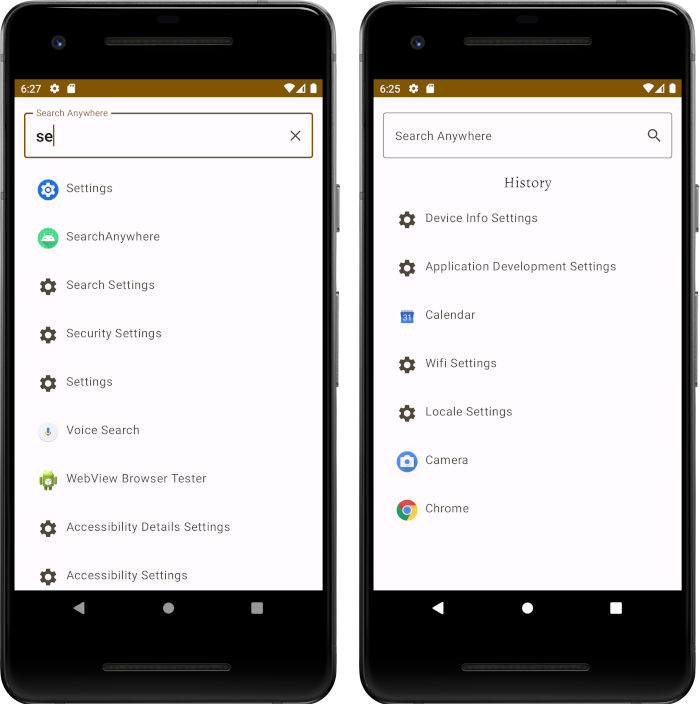
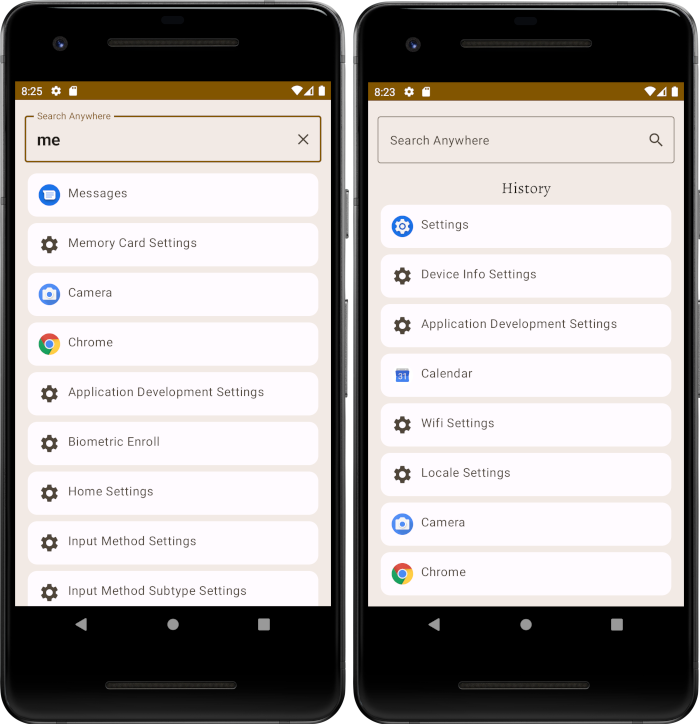
Theme changes

diff --git a/app/src/main/java/se/kalind/searchanywhere/ui/screens/search/SearchScreen.kt b/app/src/main/java/se/kalind/searchanywhere/ui/screens/search/SearchScreen.kt
@@ -19,6 +19,7 @@ import androidx.compose.material.icons.Icons
 import androidx.compose.material.icons.filled.Clear
 import androidx.compose.material.icons.filled.Search
 import androidx.compose.material3.Card
+import androidx.compose.material3.ExperimentalMaterial3Api
 import androidx.compose.material3.Icon
 import androidx.compose.material3.MaterialTheme
 import androidx.compose.material3.OutlinedTextField
@@ -26,6 +27,7 @@ import androidx.compose.material3.Scaffold
 import androidx.compose.material3.SnackbarHost
 import androidx.compose.material3.SnackbarHostState
 import androidx.compose.material3.Text
+import androidx.compose.material3.surfaceColorAtElevation
 import androidx.compose.runtime.Composable
 import androidx.compose.runtime.getValue
 import androidx.compose.runtime.mutableStateOf
@@ -34,6 +36,7 @@ import androidx.compose.runtime.rememberCoroutineScope
 import androidx.compose.runtime.saveable.rememberSaveable
 import androidx.compose.ui.Alignment
 import androidx.compose.ui.Modifier
+import androidx.compose.ui.graphics.Color
 import androidx.compose.ui.platform.LocalContext
 import androidx.compose.ui.text.TextStyle
 import androidx.compose.ui.text.font.FontWeight
@@ -216,6 +219,7 @@ private fun ItemList(
 }
 
 
+@OptIn(ExperimentalMaterial3Api::class)
 @Composable
 private fun ItemRow(
     item: SearchItem,
@@ -224,8 +228,9 @@ private fun ItemRow(
 ) {
     Card(
         modifier = modifier
-            .padding(vertical = 4.dp, horizontal = 4.dp)
-            .clickable { onClick(item.item) }
+            .padding(vertical = 4.dp, horizontal = 4.dp),
+            // .clickable modifier doesn't render the ripple correctly
+            onClick = { onClick(item.item) },
     ) {
         Row(
             modifier = Modifier

diff --git a/app/src/main/java/se/kalind/searchanywhere/ui/theme/Theme.kt b/app/src/main/java/se/kalind/searchanywhere/ui/theme/Theme.kt
@@ -14,6 +14,7 @@ import androidx.compose.ui.graphics.toArgb
 import androidx.compose.ui.platform.LocalContext
 import androidx.compose.ui.platform.LocalView
 import androidx.core.view.ViewCompat
+import androidx.core.view.WindowCompat
 
 private val LightColors = lightColorScheme(
     primary = md_theme_light_primary,
@@ -81,7 +82,7 @@ private val DarkColors = darkColorScheme(
 )
 
 @Composable
-fun MyApplicationTheme(
+fun AppTheme(
     darkTheme: Boolean = isSystemInDarkTheme(),
     // Dynamic color is available on Android 12+
     dynamicColor: Boolean = true,
@@ -96,17 +97,22 @@ fun MyApplicationTheme(
         darkTheme -> DarkColors
         else -> LightColors
     }
+    // Add primary status bar color from chosen color scheme.
     val view = LocalView.current
     if (!view.isInEditMode) {
         SideEffect {
-            (view.context as Activity).window.statusBarColor = colorScheme.primary.toArgb()
-            ViewCompat.getWindowInsetsController(view)?.isAppearanceLightStatusBars = darkTheme
+            val window = (view.context as Activity).window
+            window.statusBarColor = colorScheme.primary.toArgb()
+            WindowCompat
+                .getInsetsController(window, view)
+                .isAppearanceLightStatusBars = darkTheme
         }
     }
 
+
     MaterialTheme(
         colorScheme = colorScheme,
-        typography = Typography,
+        typography = typography,
         content = content
     )
 }

diff --git a/app/src/main/java/se/kalind/searchanywhere/ui/MainActivity.kt b/app/src/main/java/se/kalind/searchanywhere/ui/MainActivity.kt
@@ -7,8 +7,9 @@ import androidx.compose.foundation.layout.fillMaxSize
 import androidx.compose.material3.MaterialTheme
 import androidx.compose.material3.Surface
 import androidx.compose.ui.Modifier
+import androidx.compose.ui.unit.dp
 import dagger.hilt.android.AndroidEntryPoint
-import se.kalind.searchanywhere.ui.theme.MyApplicationTheme
+import se.kalind.searchanywhere.ui.theme.AppTheme
 
 @AndroidEntryPoint
 class MainActivity : ComponentActivity() {
@@ -16,10 +17,11 @@ class MainActivity : ComponentActivity() {
     override fun onCreate(savedInstanceState: Bundle?) {
         super.onCreate(savedInstanceState)
         setContent {
-            MyApplicationTheme {
+            AppTheme {
                 Surface(
                     modifier = Modifier.fillMaxSize(),
-                    color = MaterialTheme.colorScheme.background
+                    color = MaterialTheme.colorScheme.background,
+                    tonalElevation = 5.dp,
                 ) {
                     MainNavigation()
                 }

diff --git a/app/src/main/java/se/kalind/searchanywhere/ui/theme/Type.kt b/app/src/main/java/se/kalind/searchanywhere/ui/theme/Type.kt
@@ -9,7 +9,7 @@ import androidx.compose.ui.unit.sp
 import se.kalind.searchanywhere.R
 
 // Set of Material typography styles to start with
-val Typography = Typography(
+val typography = Typography(
     bodyLarge = TextStyle(
         fontFamily = FontFamily.Default,
         fontWeight = FontWeight.Normal,
